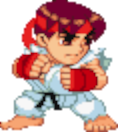
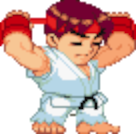
ryu taunt frames fixed

diff --git a/src/App.tsx b/src/App.tsx
@@ -21,12 +21,12 @@ import ryuVictoryFrame3 from './assets/chars/ryu/victory/ryu_victory_frame_03.pn
 import ryuVictoryFrame4 from './assets/chars/ryu/victory/ryu_victory_frame_04.png';
 import ryuVictoryFrame5 from './assets/chars/ryu/victory/ryu_victory_frame_05.png';
 import ryuVictoryFrame6 from './assets/chars/ryu/victory/ryu_victory_frame_06.png';
-import ryuVictoryFrame7 from './assets/chars/ryu/victory/ryu_victory_frame_07.png';
-import ryuVictoryFrame8 from './assets/chars/ryu/victory/ryu_victory_frame_08.png';
-import ryuVictoryFrame9 from './assets/chars/ryu/victory/ryu_victory_frame_09.png';
-import ryuPerfectFrame1 from './assets/chars/ryu/perfect/ryu_perfect_frame_01.png';
-import ryuPerfectFrame2 from './assets/chars/ryu/perfect/ryu_perfect_frame_02.png';
-import ryuPerfectFrame3 from './assets/chars/ryu/perfect/ryu_perfect_frame_03.png';
+import ryuPerfectFrame1 from './assets/chars/ryu/victory/ryu_victory_frame_01.png';
+import ryuPerfectFrame2 from './assets/chars/ryu/victory/ryu_victory_frame_02.png';
+import ryuPerfectFrame3 from './assets/chars/ryu/victory/ryu_victory_frame_03.png';
+import ryuPerfectFrame4 from './assets/chars/ryu/victory/ryu_victory_frame_04.png';
+import ryuPerfectFrame5 from './assets/chars/ryu/victory/ryu_victory_frame_05.png';
+import ryuPerfectFrame6 from './assets/chars/ryu/victory/ryu_victory_frame_06.png';
 import ryuDefeatFrame1 from './assets/chars/ryu/defeat/ryu_defeat_frame_01.png';
 import ryuShoryukenFrame1 from './assets/chars/ryu/shoryuken/ryu_shoryuken_frame_01.png';
 import ryuShoryukenFrame2 from './assets/chars/ryu/shoryuken/ryu_shoryuken_frame_02.png';
@@ -89,6 +89,8 @@ import ryuTauntFrame1 from './assets/chars/ryu/taunt/ryu_taunt_frame_01.png';
 import ryuTauntFrame2 from './assets/chars/ryu/taunt/ryu_taunt_frame_02.png';
 import ryuTauntFrame3 from './assets/chars/ryu/taunt/ryu_taunt_frame_03.png';
 import ryuTauntFrame4 from './assets/chars/ryu/taunt/ryu_taunt_frame_04.png';
+import ryuTauntFrame5 from './assets/chars/ryu/taunt/ryu_taunt_frame_05.png';
+import ryuTauntFrame6 from './assets/chars/ryu/taunt/ryu_taunt_frame_06.png';
 import kenStanceFrame1 from './assets/chars/ken/stance/ken_stance_frame_01.png';
 import kenStanceFrame2 from './assets/chars/ken/stance/ken_stance_frame_02.png';
 import kenStanceFrame3 from './assets/chars/ken/stance/ken_stance_frame_03.png';
@@ -197,9 +199,6 @@ function App() {
       ryuVictoryFrame4,
       ryuVictoryFrame5,
       ryuVictoryFrame6,
-      ryuVictoryFrame7,
-      ryuVictoryFrame8,
-      ryuVictoryFrame9,
     ],
     [ryuDefeatFrame1],
     [
@@ -249,8 +248,22 @@ function App() {
     ],
     [ryuHurtFrame1, ryuHurtFrame2, ryuHurtFrame3],
     [ryuDrawFrame1],
-    [ryuPerfectFrame1, ryuPerfectFrame2, ryuPerfectFrame3],
-    [ryuTauntFrame1, ryuTauntFrame2, ryuTauntFrame3, ryuTauntFrame4],
+    [
+      ryuPerfectFrame1,
+      ryuPerfectFrame2,
+      ryuPerfectFrame3,
+      ryuPerfectFrame4,
+      ryuPerfectFrame5,
+      ryuPerfectFrame6,
+    ],
+    [
+      ryuTauntFrame1,
+      ryuTauntFrame2,
+      ryuTauntFrame3,
+      ryuTauntFrame4,
+      ryuTauntFrame5,
+      ryuTauntFrame6,
+    ],
   ];
 
   // const ryuWaveFrames = [
@@ -578,8 +591,6 @@ function App() {
     let opponentLoop = true;
 
     if (game) {
-      // HERE I WANT THE PLAYER FRAMES TO ITERATE TILL END, currently it displays undefined frames cause
-      // opponent taunt frames are longer
       if (
         playerHP === 100 &&
         opponentHP === 100 &&
@@ -880,7 +891,6 @@ function App() {
 export default App;
 // TODO:
 // hadouken
-// add start pose/taunt
 // add chun li and choose character menu
 // boost and res logic
 // defense choice
